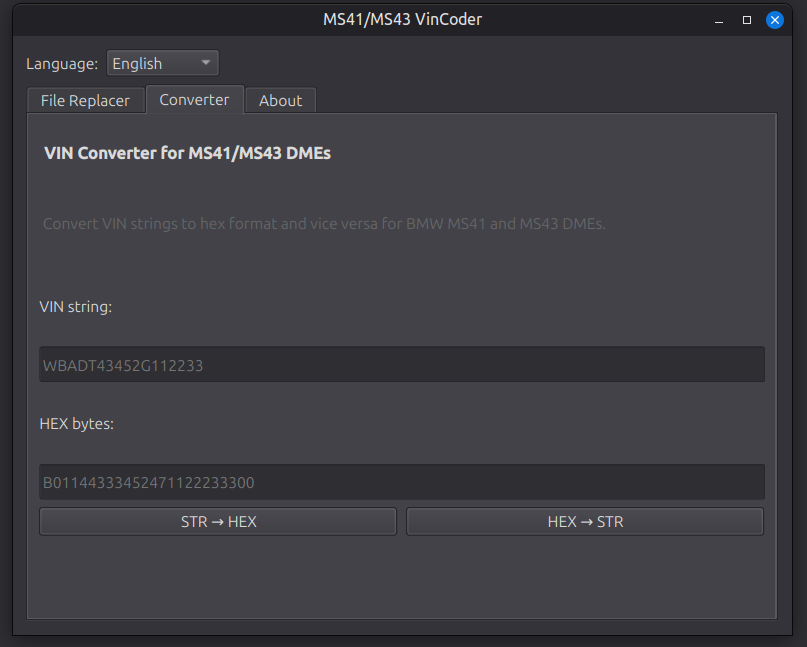
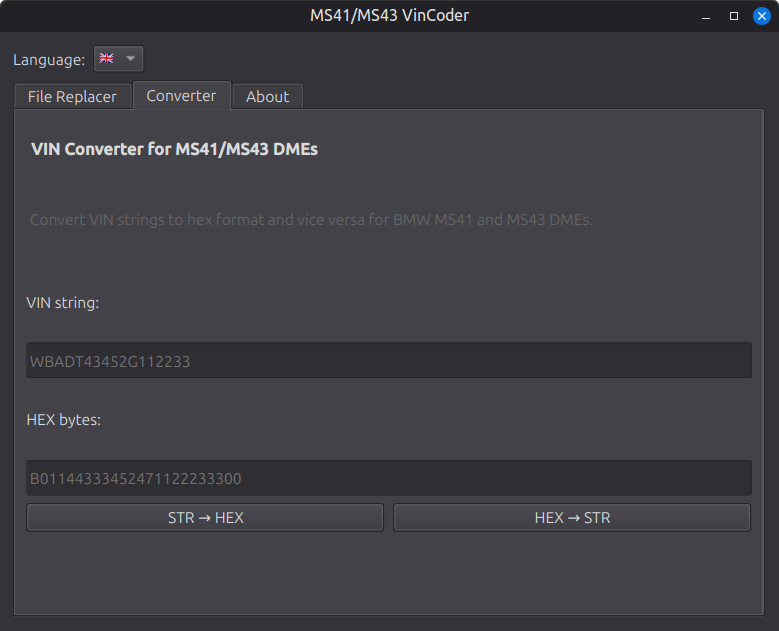
🍱 Add supported languages

diff --git a/main.py b/main.py
@@ -48,8 +48,8 @@ class VinCoder(QWidget):
         lang_layout = QHBoxLayout()
         self.lang_label = QLabel()
         self.lang_combo = QComboBox()
-        self.lang_combo.addItem("English", "en")
-        self.lang_combo.addItem("Українська", "uk")
+        self.lang_combo.addItem("🇬🇧", "en")
+        self.lang_combo.addItem("🇺🇦", "uk")
         self.lang_combo.currentIndexChanged.connect(self._change_language)
         lang_layout.addWidget(self.lang_label)
         lang_layout.addWidget(self.lang_combo)

diff --git a/README.md b/README.md
@@ -1,5 +1,7 @@
 # VinCoder
 
+Supported languages: 🇬🇧 English | 🇺🇦 Українська
+
 This tool helps you work with VIN data for BMW MS41 and MS43 engine control units. It can convert VIN strings to their hexadecimal representation and find/replace VINs in binary DME files.
 
 ![Converter](assets/converter.png)
